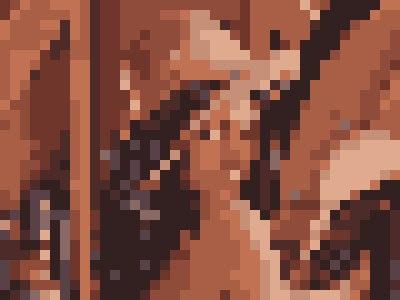
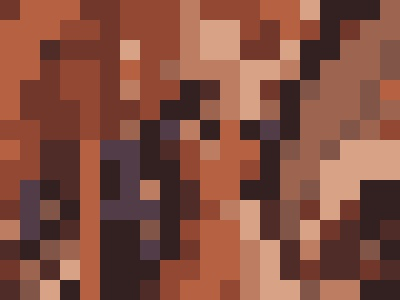
テスト環境の変更
app内のfilterをtest.pyで実行できるように改良

詳しくは質問してください

diff --git a/app/testFilter.py b/app/testFilter.py
@@ -1,6 +1,6 @@
 # -*- coding: utf-8 -*-
 """
-Created on Sat Feb 19 09:45:21 2022
+Created on Fri Mar  4 20:22:13 2022
 
 @author: valle
 """
@@ -11,24 +11,15 @@ import numpy as np
 from PIL import Image
 
 # 自作モジュール
-from Filters.FilterDotArt import FilterDotArt
-from Filters.FilterMosaic import FilterMosaic
-from Filters.FilterSubColor import FilterSubColor
-from Filters.FilterThreshold import FilterThreshold
-from Utils.ResourceIOFunction import *
+from randomUtil import getRandomString, getHashFromIpAddress
+from opencvFilter.Filters.FilterDotArt import FilterDotArt
+from opencvFilter.Filters.FilterMosaic import FilterMosaic
+from opencvFilter.Filters.FilterSubColor import FilterSubColor
+from opencvFilter.Filters.FilterThreshold import FilterThreshold
+from opencvFilter.Utils.ResourceIOFunction import *
 
 
-path = "./Images/Lenna_threshold.jpg"
-
-img = cv2.imread(path, cv2.IMREAD_UNCHANGED)# 入力画像を取得(α値も取得版)
-if (img.ndim != 3):
-    dummy = np.zeros((len(img), len(img[0]), 4))
-    for i in range(3):
-        dummy[:, :, i] = img
-    nonAlpha = np.full((len(img), len(img[0])), 255)
-    dummy[:, :, 3] = nonAlpha
-    img = dummy
-
+path = "./testImages/flower.jpg"
 testName = "dotArt"
 
 # ドット絵風
@@ -39,8 +30,8 @@ if testName == "dotArt":
     name = filterDP.getFilterName()
     filterDP.setMozikeValue(mozike)
     filterDP.setColorNum(colorNum)
-    filterDP.makeDotArtForMember()
-    dst = filterDP.dotArt(img)# ドット絵化
+    filterDP.makePictureForMember()
+#    dst = filterDP.dotArt(img)# ドット絵化
     dstName = filterDP.getFileName()
     cv2.imwrite(filterDP.getFileName(), filterDP.getImage())# 結果を出力
 #    dst = makeFabicon(dst, 32, path = filterDP.getFileName())

diff --git a/app/opencvFilter/Filters/Filter.py b/app/opencvFilter/Filters/Filter.py
@@ -46,7 +46,8 @@ class Filter(metaclass = ABCMeta):
     def __init__(self, imgPath):
         self.path = imgPath
         self.img = self.setImage(imgPath)
-
+        if (type(self.img) != type(None) and self.img.ndim != 3):
+            self.img = convertFrom2DImageTo3DImage(self.img)
     # イメージを読み取る
     def setImage(self, path):
         return cv2.imread(path, cv2.IMREAD_UNCHANGED)# 入力画像を取得(α値も取得版)

diff --git a/app/opencvFilter/Utils/FilterFunction.py b/app/opencvFilter/Utils/FilterFunction.py
@@ -27,4 +27,12 @@ def mosaic(img, alpha):
     img = cv2.resize(img,(w, h), interpolation=cv2.INTER_NEAREST)
     return img
 
+# 　グレースケールの画像を3チャンネル化して返す
+def convertFrom2DImageTo3DImage(img):
+    img3D = np.zeros((len(img), len(img[0]), 4))
+    for i in range(3):
+        img3D[:, :, i] = img
+    nonAlpha = np.full((len(img), len(img[0])), 255)
+    img3D[:, :, 3] = nonAlpha
+    return img3D
 

diff --git a/opencvFilter/Utils/FilterFunction.py b/opencvFilter/Utils/FilterFunction.py
@@ -28,3 +28,11 @@ def mosaic(img, alpha):
     return img
 
 
+# 　グレースケールの画像を3チャンネル化して返す
+def convertFrom2DImageTo3DImage(img):
+    img3D = np.zeros((len(img), len(img[0]), 4))
+    for i in range(3):
+        img3D[:, :, i] = img
+    nonAlpha = np.full((len(img), len(img[0])), 255)
+    img3D[:, :, 3] = nonAlpha
+    return img3D

diff --git a/opencvFilter/Filters/Filter.py b/opencvFilter/Filters/Filter.py
@@ -40,6 +40,8 @@ class Filter(metaclass = ABCMeta):
     def __init__(self, imgPath):
         self.path = imgPath
         self.img = self.setImage(imgPath)
+        if (type(self.img) != None and self.img.ndim != 3):
+            self.img = convertFrom2DImageTo3DImage(self.img)
 
     # イメージを読み取る
     def setImage(self, path):

diff --git a/app/opencvFilter/Filters/FilterDotArt.py b/app/opencvFilter/Filters/FilterDotArt.py
@@ -26,7 +26,9 @@ class FilterDotArt(Filter):
     # コンストラクタ
     def __init__(self, imgPath):
         super().__init__(imgPath)
+        # モザイクの強度
         self.mozike = 0.05
+        # 色の数
         self.colorNum = 8
 
     # フィルター名を取得する。

diff --git a/app/views.py b/app/views.py
@@ -137,7 +137,6 @@ def about(request):
 # テストのフォーム関数ビュー
 def modelFormUpload(request):
     if request.method == 'POST':
-        # フォームを
         form = DocumentForm(request.POST, request.FILES)
         if form.is_valid():
             form.save()

diff --git a/app/randomUtil.py b/app/randomUtil.py
@@ -22,5 +22,3 @@ def getHashFromIpAddress(ipAddress):
     # ipv6用ピリオドを除く
     ipNopil = ipNopil.replace(":", "")
     return hashlib.md5(ipNopil.encode()).hexdigest()
-    
-print(getHashFromIpAddress("126.0.0.1"))
